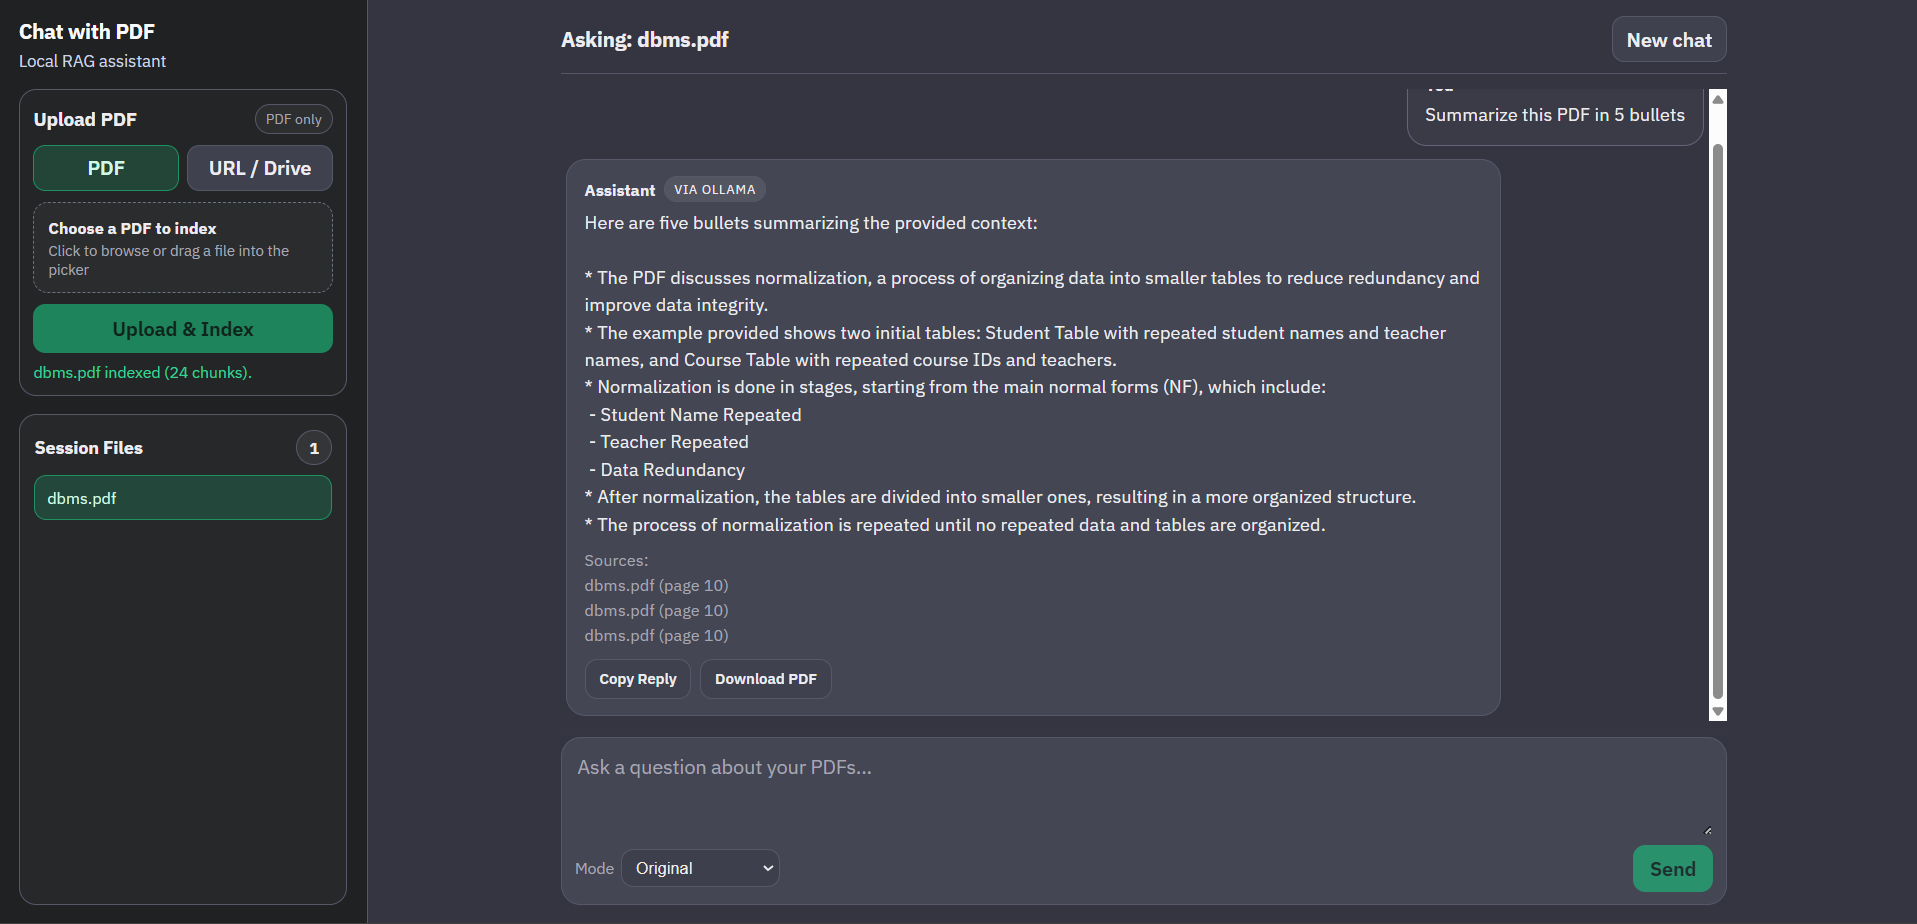
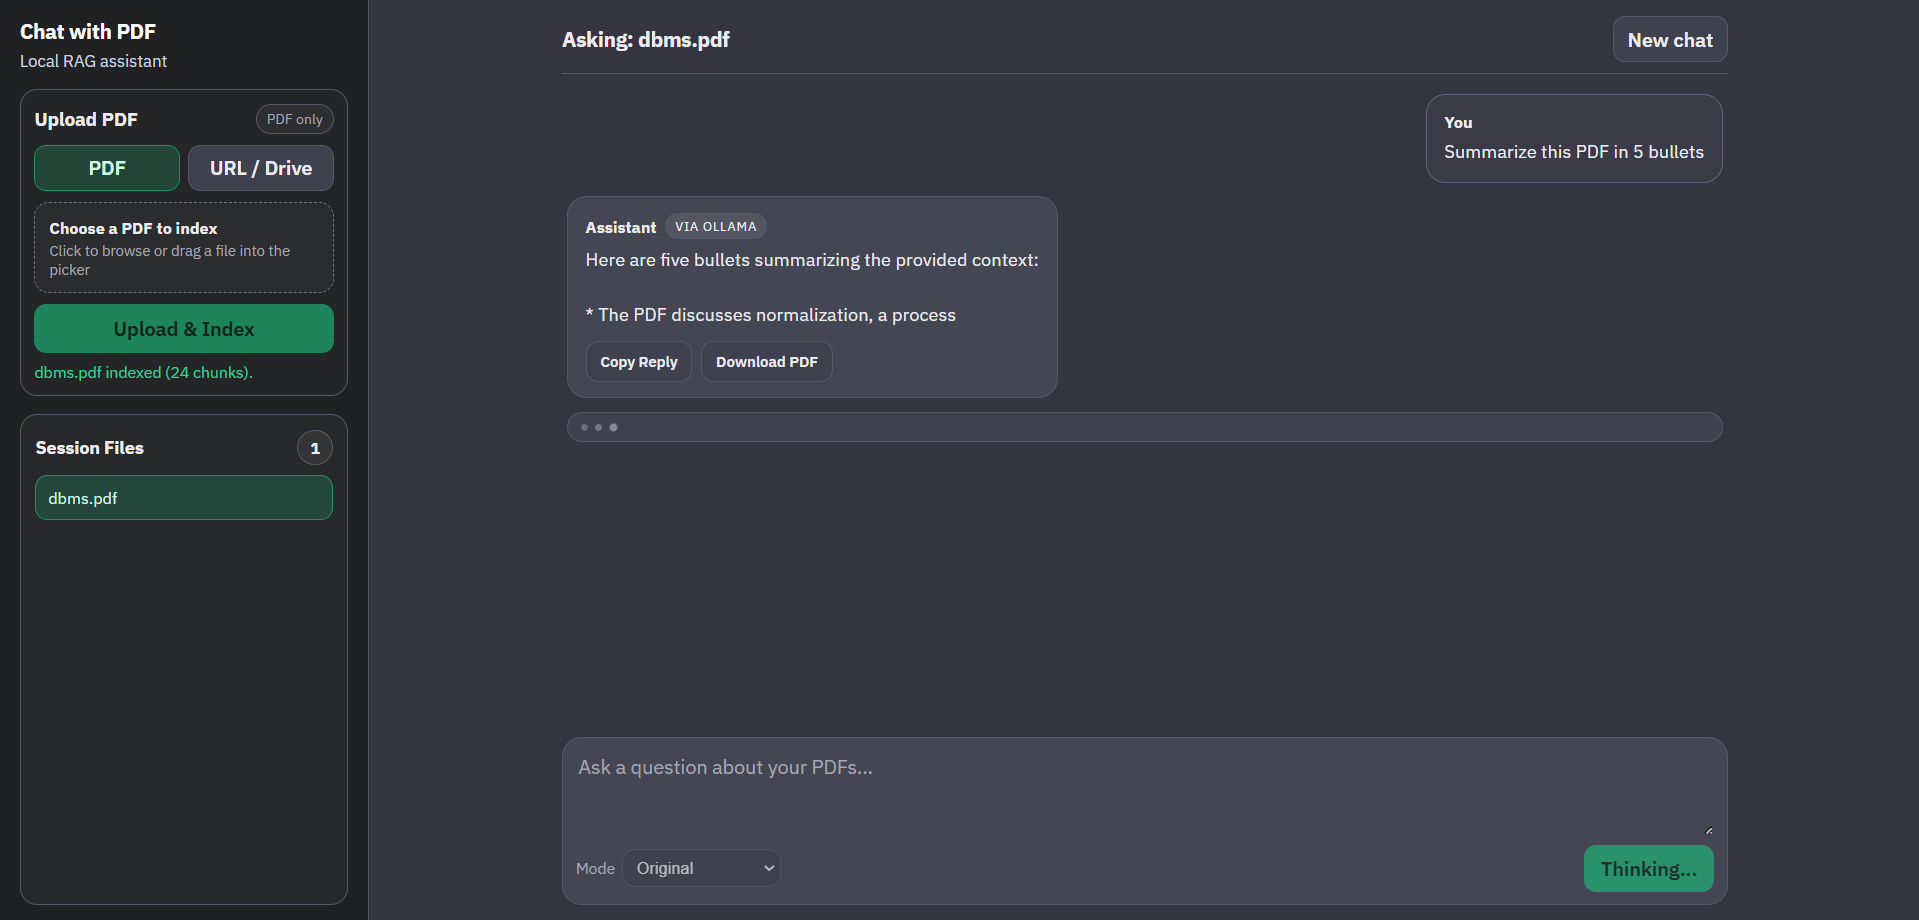
comment

diff --git a/README.md b/README.md
@@ -183,16 +183,17 @@ The latest UI flow includes:
 ### Screenshots
 
 #### Chat Layout
-![Chat Layout](docs/screenshots/chat-layout.png)
+![Chat Layout](docs/screenshots/1.png)
 
-#### Conversation + Inline Actions
-![Conversation View](docs/screenshots/2.png)
+#### Empty / Quick Prompt State
+![Empty State](docs/screenshots/2.png)
+
 
 #### Streaming / Thinking State
 ![Streaming State](docs/screenshots/3.png)
 
-#### Empty / Quick Prompt State
-![Empty State](docs/screenshots/Screenshot%202026-04-08%20221757.png)
+#### Result
+![Result](docs/screenshots/2.png)
 
 ---
 
